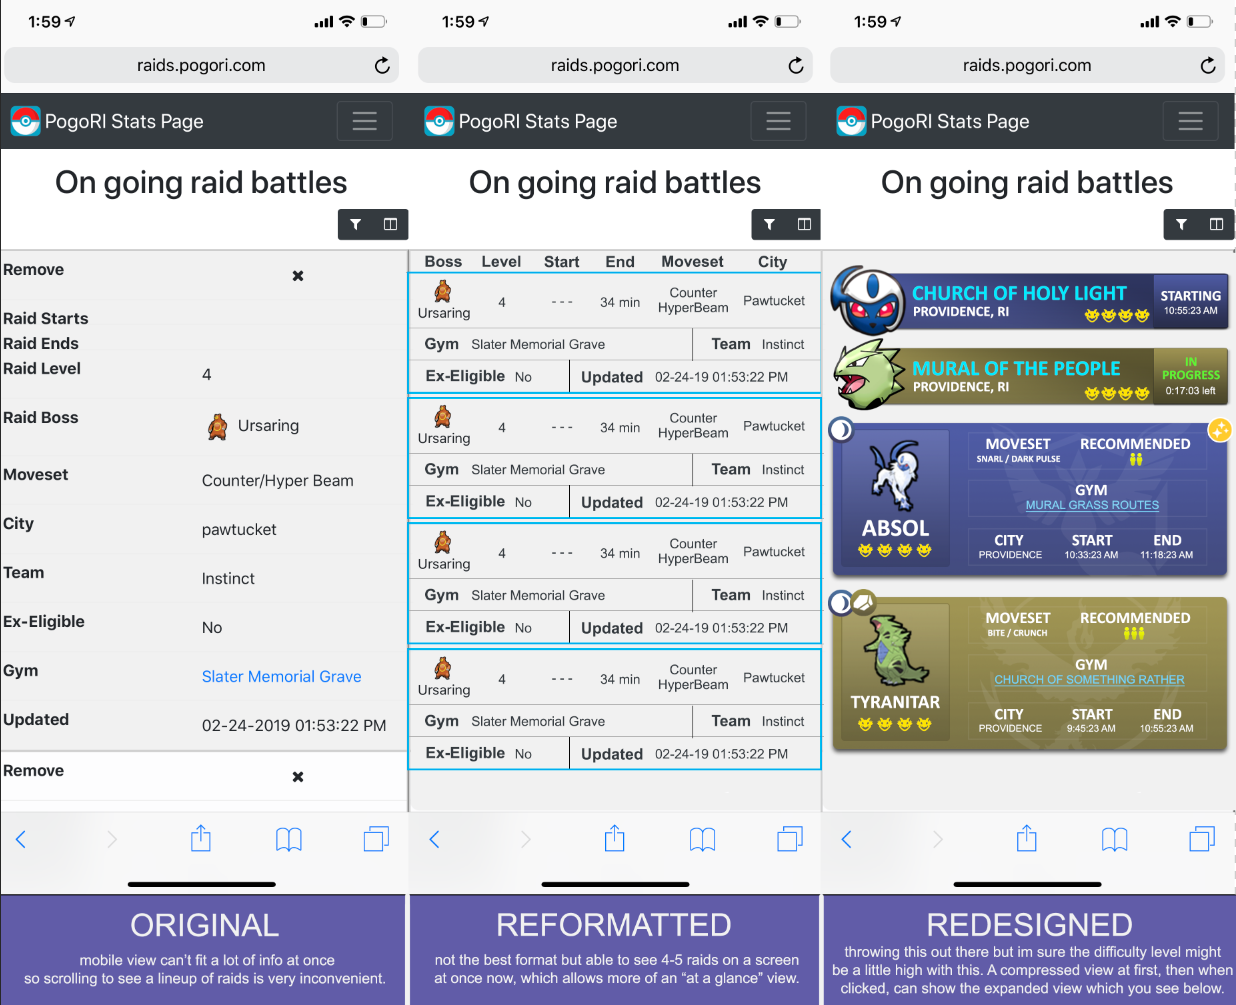
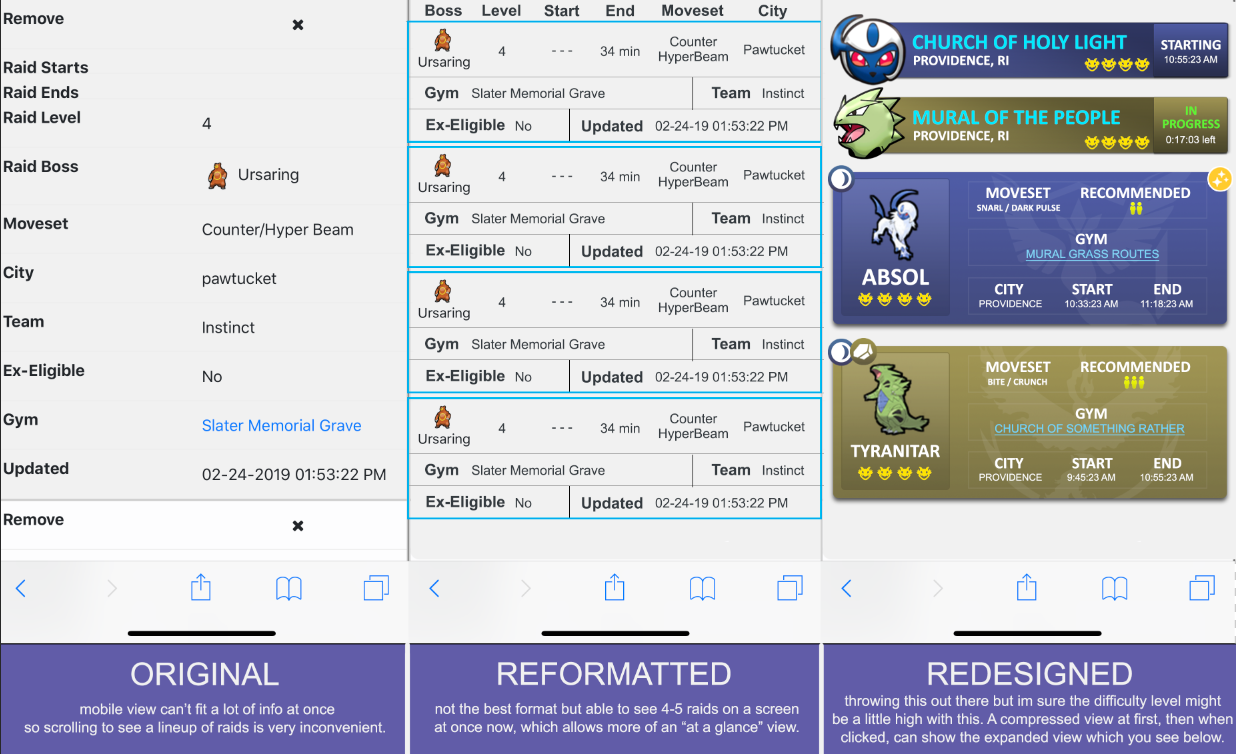
- Add config option to force new style raid cards or only on mobile. - Add config option for debugging dashboard errors. - Change Dashboard total Pokemon to active Pokemon. (Thanks Drunk3nSlang) - Change last updated

diff --git a/static/js/filters.js b/static/js/filters.js
@@ -1,4 +1,4 @@
-function filter_raids() {
+function filter_raids(mobile) {
   var table = $("table-refresh");
   table.load("data_fetcher.php");
 
@@ -41,7 +41,6 @@ function filter_raids() {
     console.log("Gym filter cleared");
   }
 
-  var mobile = true;/*isMobile();*/
   var table = document.getElementById("gym-table");
   var tr = mobile ? table.getElementsByClassName("mobile-row") : table.getElementsByTagName("tr");
   for (var i = 0; i < tr.length; i++) {

diff --git a/pages/raids.php b/pages/raids.php
@@ -7,6 +7,7 @@ require_once './static/data/pokedex.php';
 require_once './static/data/movesets.php';
 
 $geofenceSrvc = new GeofenceService();
+$mobile = $config['ui']['table']['forceRaidCards'] || (!$config['ui']['table']['forceRaidCards'] && is_mobile());
 
 $filters = "
 <div class='container'>
@@ -15,19 +16,19 @@ $filters = "
       <div class='input-group-prepend'>
         <label class='input-group-text' for='search-input'>Pokemon</label>
       </div>
-      <input type='text' id='search-input' class='form-control input-lg' onkeyup='filter_raids()' placeholder='Search by name..' title='Type in a name'>
+      <input type='text' id='search-input' class='form-control input-lg' onkeyup='filter_raids($mobile)' placeholder='Search by name..' title='Type in a name'>
     </div>
     <div class='input-group mb-3'>
       <div class='input-group-prepend'>
         <label class='input-group-text' for='filter-gym'>Gym</label>
       </div>
-      <input type='text' id='filter-gym' class='form-control input-lg' onkeyup='filter_raids()' placeholder='Search by gym..' title='Type in a gym name'>
+      <input type='text' id='filter-gym' class='form-control input-lg' onkeyup='filter_raids($mobile)' placeholder='Search by gym..' title='Type in a gym name'>
     </div>
     <div class='input-group mb-3'>
       <div class='input-group-prepend'>
         <label class='input-group-text' for='filter-city'>City</label>
       </div>
-      <select id='filter-city' class='custom-select' onchange='filter_raids()'>
+      <select id='filter-city' class='custom-select' onchange='filter_raids($mobile)'>
         <option disabled selected>Select</option>
         <option value='all'>All</option>
         <option value='" . $config['ui']['unknownValue'] . "'>" . $config['ui']['unknownValue'] . "</option>";
@@ -43,7 +44,7 @@ $filters = "
       <div class='input-group-prepend'>
         <label class='input-group-text' for='filter-level'>Raid Level</label>
       </div>
-      <select id='filter-level' class='custom-select' onchange='filter_raids()'>
+      <select id='filter-level' class='custom-select' onchange='filter_raids($mobile)'>
         <option disabled selected>Select</option>
         <option value='all'>All</option>
         <option value='1'>1</option>
@@ -57,7 +58,7 @@ $filters = "
       <div class='input-group-prepend'>
         <label class='input-group-text' for='filter-team'>Team</label>
       </div>
-      <select id='filter-team' class='custom-select' onchange='filter_raids()'>
+      <select id='filter-team' class='custom-select' onchange='filter_raids($mobile)'>
         <option disabled selected>Select</option>
         <option value='all'>All</option>
         <option value='Neutral'>Neutral</option>
@@ -70,7 +71,7 @@ $filters = "
       <div class='input-group-prepend'>
         <label class='input-group-text' for='search-input'>Ex-Eligible</label>
       </div>
-      <select id='filter-ex' class='custom-select' onchange='filter_raids()'>
+      <select id='filter-ex' class='custom-select' onchange='filter_raids($mobile)'>
         <option disabled selected>Select</option>
         <option value='all'>All</option>
         <option value='yes'>Yes</option>

diff --git a/pages/dashboard.php b/pages/dashboard.php
@@ -16,7 +16,7 @@ $html = "
             <a class='list-group-item'>
               <h3 class='pull-right'><img src='./static/images/quests/1.png' width='64' height='64'/></h3>
               <h4 class='list-group-item-heading pokemon-count'>0</h4>
-              <p class='list-group-item-text'>Pokemon</p>
+              <p class='list-group-item-text'>Active Pokemon</p>
             </a>
           </div>
         </div>
@@ -139,7 +139,9 @@ echo $html;
 var tmp = createToken();
 sendRequest({ "type": "dashboard", "token": tmp }, function(data) {
   tmp = null;
-  console.log("Dashboard:",data);
+  if (<?=$config['core']['showDebug']?>) {
+    console.log("Dashboard:",data);
+  }
   var obj = JSON.parse(data);
   if (obj === 0) {
     console.log("Failed to get data for dashboard.");
@@ -147,7 +149,7 @@ sendRequest({ "type": "dashboard", "token": tmp }, function(data) {
   }
 
   // Animate the element's value from x to y:
-  $({ pokemonValue: 0, gymsValue: 0, raidsValue: 0, neutralValue: 0, mysticValue: 0, valorValue: 0, instinctValue: 0, pokestopsValue: 0, luredValue: 0, questsValue: 0 }).animate({ pokemonValue: obj.pokemon, gymsValue: obj.gyms, raidsValue: obj.raids, neutralValue: obj.neutral, mysticValue: obj.mystic, valorValue: obj.valor, instinctValue: obj.instinct, pokestopsValue: obj.pokestops, luredValue: obj.lured, questsValue: obj.quests }, {
+  $({ pokemonValue: 0, gymsValue: 0, raidsValue: 0, neutralValue: 0, mysticValue: 0, valorValue: 0, instinctValue: 0, pokestopsValue: 0, luredValue: 0, questsValue: 0 }).animate({ pokemonValue: obj.active_pokemon, gymsValue: obj.gyms, raidsValue: obj.raids, neutralValue: obj.neutral, mysticValue: obj.mystic, valorValue: obj.valor, instinctValue: obj.instinct, pokestopsValue: obj.pokestops, luredValue: obj.lured, questsValue: obj.quests }, {
     duration: 3000,
     easing: 'swing', // can be anything
     step: function() { // called on every step

diff --git a/includes/data_fetcher.php b/includes/data_fetcher.php
@@ -46,7 +46,7 @@ ORDER BY
 ";
 
   echo $modal;
-  if (/*is_mobile()*/ true) {
+  if ($config['ui']['table']['forceRaidCards'] || (!$config['ui']['table']['forceRaidCards'] && is_mobile())) {
     $result = $pdo->query($sql);
     if ($result->rowCount() > 0) {
       echo "<div id='gym-table' class='container' style='display: flex;flex-direction: column;'>";
@@ -68,7 +68,8 @@ ORDER BY
         $started = $row['raid_battle_timestamp'] > time();
         $startTime = $started ? "--" : $starts;
         $endTime = $started ? getMinutesLeft($row['raid_end_timestamp']) . "m" : $ends;
-        $updated = getMinutesLeft($row['updated']) . " mins ago";
+        $minsLeft = getMinutesLeft($row['updated']);
+        $updated = ($minsLeft === '00' ? "Just now" : $minsLeft . " mins ago");
         echo "<div class='row mobile-row text-nowrap shadow rounded border border-dark' style='background: #cccccc;'>";
           echo "<div class='col w-25 small-header'><b><div class='mobile'>$pokemon</div>&nbsp;<img src='$raid_image' height=32 width=32 /></b></div>";
           echo "<div class='col w-25 small-header'><b>Level</b> <div class='mobile'>$level</div></div>";

diff --git a/config.example.php b/config.example.php
@@ -9,6 +9,7 @@ $config = [
     "showFooter" => false, //Show bottom footer
     "showCopyright" => false, //Show Nintendo/Niantic/Pokemon copyright footer
     "showErrors" => true, //Show PHP errors
+    "showDebug" => true, //Shows debug output
     "startupLocation" => [1,1], //Default location to startup any map objects at
     "maxPokemon" => 495, //Maximum amount of pokemon for Pokemon stats page
     "lastNestMigration" => "2019-03-07T01:00:00Z" //UTC time of last nest migration
@@ -44,7 +45,8 @@ $config = [
       "style" => "light", //light/dark
       "headerStyle" => "dark", //light/dark
       "striped" => true, //true/false
-      "refreshRateS" => 60 //Refresh raids table data every x seconds.
+      "refreshRateS" => 60, //Refresh raids table data every x seconds.
+      "forceRaidCards" => false //Forces new display style on Desktop and Mobile if true, otherwise tables on Desktop and new style on Mobile if false.
     ],
     "charts" => [
       "type" => "bar",

diff --git a/api.php b/api.php
@@ -58,6 +58,10 @@ if (!(isset($_GET['type']) && !empty($_GET['type']))) {
   if ($result->rowCount() > 0) {
     $data = $result->fetchAll();
     echo json_encode($data);
+  } else {
+    if ($config['core']['showDebug']) {
+      echo "Query returned zero results.";
+    }
   }
   unset($pdo);
   unset($db);
@@ -70,10 +74,12 @@ if (!(isset($_GET['type']) && !empty($_GET['type']))) {
       $gymStats = get_gym_stats();
       $stopStats = get_pokestop_stats();
       $pokemonCount = get_table_count("pokemon");
+      $activePokemonCount = get_table_count("pokemon WHERE expire_timestamp > UNIX_TIMESTAMP()");
       $gymCount = get_table_count("gym");
       $raidCount = get_raid_stats();
       $obj = [
         "pokemon" => $pokemonCount,
+        "active_pokemon" => $activePokemonCount,
         "gyms" => $gymCount,
         "raids" => $raidCount,
         "neutral" => $gymStats === 0 ? 0 : count($gymStats) < 4 ? 0 : $gymStats[0],

diff --git a/includes/utils.php b/includes/utils.php
@@ -40,7 +40,7 @@ function get_pokestop_stats() {
   $sql = "
 SELECT 
   COUNT(id) total,
-  SUM(CASE WHEN lure_expire_timestamp > 0 THEN 1 ELSE 0 END) lured,
+  SUM(CASE WHEN lure_expire_timestamp > UNIX_TIMESTAMP() THEN 1 ELSE 0 END) lured,
   SUM(CASE WHEN quest_reward_type THEN 1 ELSE 0 END) quests
 FROM
   " . $config['db']['dbname'] . ".pokestop
@@ -59,7 +59,16 @@ function get_raid_stats() {
   global $config;
   $db = new DbConnector($config['db']);
   $pdo = $db->getConnection();
-  $sql = "SELECT count(id) FROM " . $config['db']['dbname'] . ".gym WHERE raid_pokemon_id IS NOT NULL && name IS NOT NULL && raid_end_timestamp >= UNIX_TIMESTAMP()";
+  $sql = "
+SELECT
+  COUNT(id)
+FROM
+  " . $config['db']['dbname'] . ".gym
+WHERE
+  raid_pokemon_id IS NOT NULL && 
+  name IS NOT NULL && 
+  raid_end_timestamp >= UNIX_TIMESTAMP()
+";
   $count = $pdo->query($sql)->fetchColumn();
   unset($pdo);
   unset($db);

diff --git a/pages/pokestops.php b/pages/pokestops.php
@@ -56,10 +56,12 @@ L.tileLayer('https://api.tiles.mapbox.com/v4/{id}/{z}/{x}/{y}.png?access_token=p
 
 var popup = L.popup();
 function onMapClick(e) {
+/*
   popup
     .setLatLng(e.latlng)
     .setContent("You clicked the map at " + e.latlng.toString())
     .openOn(mymap);
+*/
 }
 
 mymap.on('click', onMapClick);
@@ -85,7 +87,7 @@ $(document).ready(function(){
   $.ajax({
     url: "api.php",
     method: "GET",
-	  data: { 'table': "pokestop", "limit": 1000, "token": tmp },
+	  data: { 'table': "pokestop", /*"limit": 1000,*/ "token": tmp },
     success: function(data) {
       this.tmp = null;
       var pokestops = JSON.parse(data);
@@ -94,7 +96,7 @@ $(document).ready(function(){
       })
     },
     error: function(data) {
-      console.log("ERROR:",data);
+      console.log("[ERROR]:", data);
     }
   });
 });
